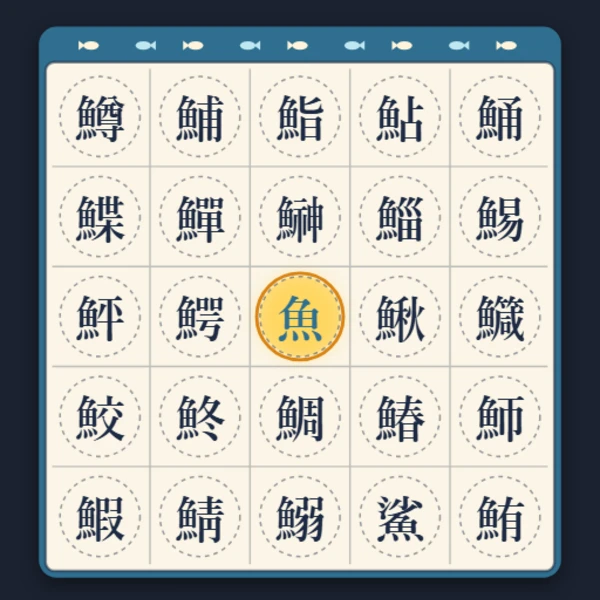
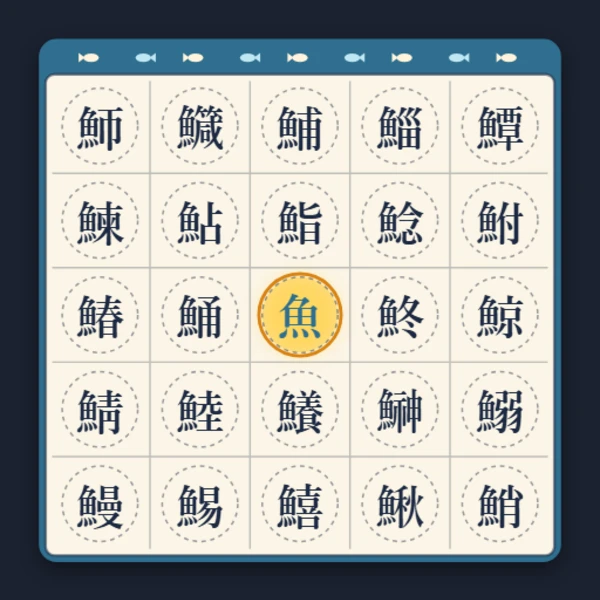
難読ビンゴ: 穴を開けるとシートが沈んで戻る手ごたえを付ける。結果はシートの下にボタンだけ。難は最初から選べる
結果の画面で暗くして数字や×を出すのをやめる。難を出す仕組みと演出、カード選びの F8 はなくす。サムネを撮り直す。

Changed region(s): [[0.06, 0.03, 0.96, 0.99]]

diff --git a/games/_sakanahen-bingo/index.html b/games/_sakanahen-bingo/index.html
@@ -35,7 +35,7 @@
    上に読みが1つずつ出る。その漢字がカードにあれば、時間内にタップして穴を開ける。
    違う漢字を押すと、その読みは流れてしまう。カードに無いと思ったらタイマーの右のスキップボタン（キーは X）で次へ進む。
    ビンゴまでに出た読みの数が結果（少ないほどよい）。
-   魚・木・金・鳥・虫を全部ビンゴすると「難」（難読漢字）のカードが出る。
+   カードは木・金・虫・魚・鳥と「難」（難読漢字）。
    クリアしたカードはブラウザに残し、選ぶ丸にチェックの印を付ける（回数は残さない）。
    ライフは3つ。違う字を押す・カードにある字を開けられずに流す、で1つ減り、なくなると終わり。
 
@@ -114,7 +114,6 @@
   /* ライフがなくなった: 下がっていく3音 */
   function sndOver() { [392, 330, 262].forEach(function (f, i) { tone(f, 0.28, 0.07, "triangle", f * 0.94, i * 0.16); }); }
   /* 難が出た: 高く駆け上がって、きらっと */
-  function sndUnlock() { [784, 988, 1175, 1568, 1976, 2349].forEach(function (f, i) { tone(f, 0.22, 0.06, "triangle", null, 0.15 + i * 0.07); }); }
   /* 抽選機がガラガラ回って、玉がコロコロ出てくる */
   function sndRattle() {
     for (var i = 0; i < 9; i++) noiseHit(0.03, 2200 + Math.random() * 1800, 0.05 + Math.random() * 0.04, 3, i * 0.06 + Math.random() * 0.02);
@@ -170,7 +169,6 @@
     return { mark: s.mark, list: s.list.split(" ").map(function (w) { return { k: w.charAt(0), r: w.slice(1) }; }) };
   });
   var setNo = 3;                                /* 選んでいるカード。最初は魚 */
-  var BASE = 5;                                 /* 最初から選べるカードの数。全部ビンゴすると次（難）が出る */
 
   /* ============ 記録 ============
      クリアしたカード（ビンゴできたか）だけをブラウザに残す。回数は残さない。
@@ -183,10 +181,7 @@
     for (var om in old) if (old[om]) cleared[om] = true;
   } catch (e) { cleared = {}; }
   function saveCleared() { try { window.localStorage.setItem(SAVE_KEY, JSON.stringify(cleared)); } catch (e) {} }
-  /* 確かめる用（手元 localhost だけの F8）。
-     カードを選ぶ画面では、難を出す／戻す（記録には何も書かない）。
-     遊んでいる間は、出ている読みの字がカードにあれば開け、無ければスキップする */
-  var debugNan = false;
+  /* 確かめる用（手元 localhost だけの F8）。遊んでいる間に押すと、出ている読みの字がカードにあれば開け、無ければスキップする */
   function isLocal() {
     try { return /^(localhost|127\.0\.0\.1)$/.test(window.location.hostname); } catch (e) { return false; }
   }
@@ -196,18 +191,7 @@
     if (at >= 0 && !open[at]) pickCell(at);
     else { skipT = T; endCall("pass"); }
   }
-  function toggleDebugNan() {
-    debugNan = !debugNan;
-    if (debugNan) chooseSet(SETS.length - 1);
-    else if (setNo >= BASE) { for (var i = 0; i < BASE; i++) if (SETS[i].mark === "魚") chooseSet(i); }
-  }
-  function unlocked() {
-    if (debugNan) return true;
-    for (var i = 0; i < BASE; i++) if (!cleared[SETS[i].mark]) return false;
-    return true;
-  }
-  function setCount() { return unlocked() ? SETS.length : BASE; }
-  var unlockT = -9;                             /* 難が出た瞬間（丸がはじけて出てくる） */
+  function setCount() { return SETS.length; }  /* 難も最初から選べる */
   function FISH() { return SETS[setNo].list; }
   var DRAW_SPIN = 0.55, DRAW_ROLL = 0.87, DRAW_TIME = 1.2;   /* 抽選機が回る → 玉が転がり出る → 玉が大きく寄ってくる、の区切り（秒） */
   var CALL_TIME = 10;                           /* 1つの読みを出しておく秒数 */
@@ -238,7 +222,7 @@
   var S = { INTRO: "intro", PLAY: "play", RESULT: "result" };
   /* PLAY の中の段階: call（読みが出ている）→ reveal（答えの漢字を見せる）→ 次の call、または bingo → 結果 */
   var state, phase, pt, score, card, open, openT, bingoLine, calls, cur, recent, outcome,
-      missT = [], wrongT = [], dealT = -9, drumA = 0, spin = 0, drumOut = 0, skipT = -9, backShown = false, lives = LIVES, lifeT = -9, failed = false, reachFx = [], shakeT = -9, sparks = [], cursor = 0, keyMode = false, T, reached;
+      missT = [], wrongT = [], dealT = -9, drumA = 0, spin = 0, drumOut = 0, skipT = -9, backShown = false, punchT = -9, punchCell = 12, lives = LIVES, lifeT = -9, failed = false, reachFx = [], shakeT = -9, sparks = [], cursor = 0, keyMode = false, T, reached;
 
   var BOX, BOXH, CARD, CELL, FRAME;
   function place() {
@@ -247,7 +231,7 @@
     BOXH = 200 + Math.min(extra * 0.35, 110);
     /* 紙のカード: 外枠（FRAME）の上に色の帯、その下に5×5のマス */
     var top = BOX + BOXH + 18, band = 26, pad = 10;
-    CELL = { w: 90, h: Math.min(90, Math.floor((H - top - 30 - band - pad * 2) / 5)) };
+    CELL = { w: 90, h: Math.min(90, Math.floor((H - top - 92 - band - pad * 2) / 5)) };   /* 下は結果のボタンの場所を空けておく */
     var fw = CELL.w * 5 + pad * 2;
     FRAME = { x: (W - fw) / 2, y: top, w: fw, h: band + pad * 2 + CELL.h * 5, band: band };
     CARD = { x: FRAME.x + pad, y: top + band + pad };
@@ -295,10 +279,13 @@
     }
   }
 
+  /* 穴を開けたときの手ごたえ: シート全体が押したマスのほうへ少し沈んで、ぷるっと戻る */
+  function punchAt(i) { punchT = T; punchCell = i; }
   function stamp(i) {
     if (open[i]) return;
     open[i] = true; openT[i] = 0;
     sndStamp();
+    punchAt(i);
     var cr = cellRect(i);
     burst(cr.x + cr.w / 2, cr.y + cr.h / 2, 10, 1);
     for (var l = 0; l < LINES.length; l++) {
@@ -308,11 +295,10 @@
       if (n === 4 && !reached[l]) { reached[l] = true; reachFx.push({ line: LINES[l], t: T }); shakeT = T; sndReach(); }
     }
   }
-  /* ビンゴしたらクリアとして残す。5つ揃ったら難が出る */
+  /* ビンゴしたらクリアとして残す */
   function record() {
-    var m = SETS[setNo].mark, was = unlocked();
+    var m = SETS[setNo].mark;
     if (!cleared[m]) { cleared[m] = true; saveCleared(); }
-    if (!was && unlocked()) unlockT = -1;       /* カード選びに戻った時に、丸が出てくる */
   }
 
   /* リーチの待ち: 4つ開いた列の、残り1つのマス */
@@ -424,8 +410,7 @@
   window.addEventListener("keydown", function (e) {
     if (e.key === "F8" && isLocal()) {
       e.preventDefault();
-      if (state === S.INTRO && !e.repeat) toggleDebugNan();
-      else if (state === S.PLAY) debugAnswer();
+      if (state === S.PLAY) debugAnswer();
       return;
     }
     var esc = e.key === "Escape";
@@ -791,6 +776,16 @@
     var sk = T - shakeT, shake = sk >= 0 && sk < 0.4 ? Math.sin(sk * 70) * 6 * (1 - sk / 0.4) : 0;
     ctx.save();
     ctx.translate(shake, 0);
+    var pk = T - punchT;
+    if (pk >= 0 && pk < 0.32) {                  /* 押した手ごたえ（沈んで、少し行き過ぎて戻る） */
+      var env = Math.exp(-pk * 13) * Math.cos(pk * 26);
+      var pc = cellRect(punchCell), mx = F.x + F.w / 2, my = F.y + F.h / 2;
+      var dx = (pc.x + pc.w / 2 - mx) / (F.w / 2), dy = (pc.y + pc.h / 2 - my) / (F.h / 2);
+      var sc = 1 - 0.014 * env;
+      ctx.translate(mx + dx * 2.5 * env, my + dy * 2.5 * env + 2 * env);
+      ctx.scale(sc, sc);
+      ctx.translate(-mx, -my);
+    }
     /* 影と外枠 */
     ctx.save();
     ctx.shadowColor = "rgba(0,0,0,.45)"; ctx.shadowBlur = 16; ctx.shadowOffsetY = 6;
@@ -1058,18 +1053,7 @@
   function drawSets() {
     setRects().forEach(function (r, i) {
       var on = i === setNo;
-      var ut = i >= BASE ? T - unlockT : 9;
-      if (ut < 0) return;                       /* 出てくる前（難が出る瞬間は、ほかの丸が描けてから） */
       ctx.save();
-      if (ut < 1.2) {                           /* 出てきたところ: 光の筋が回り、丸が弾んで大きくなる */
-        var pop = ut < 0.35 ? ut / 0.35 * 1.3 : 1 + 0.3 * Math.max(0, 1 - (ut - 0.35) / 0.4);
-        ctx.save();
-        ctx.translate(r.x, r.y); ctx.rotate(ut * 2);
-        ctx.globalAlpha = Math.max(0, 1 - ut / 1.2) * 0.8; ctx.fillStyle = "#ffe08a";
-        for (var k = 0; k < 12; k++) { ctx.rotate(Math.PI / 6); ctx.beginPath(); ctx.moveTo(0, 0); ctx.lineTo(r.r * 2.4, -5); ctx.lineTo(r.r * 2.4, 5); ctx.closePath(); ctx.fill(); }
-        ctx.restore();
-        ctx.translate(r.x, r.y); ctx.scale(pop, pop); ctx.translate(-r.x, -r.y);
-      }
       var chip = THEMES[i].rainbow ? rainbowFill(r.x - r.r, r.y - r.r, r.x + r.r, r.y + r.r, T * 60) : THEMES[i].chip;
       ctx.beginPath(); ctx.arc(r.x, r.y, r.r, 0, Math.PI * 2);
       ctx.fillStyle = on ? PAPER : chip; ctx.fill();
@@ -1099,10 +1083,10 @@
     ctx.restore();
   }
 
-  /* 結果画面。場面を暗くして、中央に数字と「もう一度」「Xでシェア」 */
+  /* 結果画面。ビンゴシートはそのまま見せて、すぐ下に「もう一度」「Xでシェア」 */
   function resultButtons() {
     var h = 54, gap = 16, wr = 170, ws = 224;
-    var x0 = W / 2 - (wr + gap + ws) / 2, y = H / 2 + 20;
+    var x0 = W / 2 - (wr + gap + ws) / 2, y = FRAME.y + FRAME.h + 20;   /* ビンゴシートのすぐ下 */
     return [
       { id: "retry", x: x0, y: y, w: wr, h: h, label: "もう一度" },
       { id: "share", x: x0 + wr + gap, y: y, w: ws, h: h, label: "Xでシェア" }
@@ -1116,23 +1100,7 @@
     }
     return null;
   }
-  function drawResult() {
-    ctx.fillStyle = "rgba(8,10,16,.78)";
-    ctx.fillRect(0, 0, W, H);
-    ctx.save();
-    ctx.fillStyle = "#fff";
-    ctx.shadowColor = "rgba(0,0,0,.6)";
-    ctx.shadowBlur = 10;
-    if (failed) {                               /* ライフがなくなったときは数字の代わりに大きなばつ印 */
-      ctx.strokeStyle = "#fff"; ctx.lineWidth = 18; ctx.lineCap = "round";
-      var cx = W / 2, cy = H / 2 - 72, d = 44;
-      ctx.beginPath(); ctx.moveTo(cx - d, cy - d); ctx.lineTo(cx + d, cy + d); ctx.moveTo(cx + d, cy - d); ctx.lineTo(cx - d, cy + d); ctx.stroke();
-    } else {
-      ctx.font = "800 120px sans-serif";
-      ctx.textAlign = "center";
-      ctx.fillText(String(score), W / 2, H / 2 - 30);
-    }
-    ctx.restore();
+  function drawResult() {                      /* 場面はそのまま。シートの下にボタンを出すだけ */
     resultButtons().forEach(function (b) {
       ctx.save();
       ctx.translate(b.x + b.w / 2, b.y + b.h / 2);
@@ -1155,7 +1123,7 @@
     now: function () {
       return { state: state, phase: phase, score: score, calls: calls, card: card && card.slice(), open: open && open.slice(),
                call: cur && { kanji: cur.k, reading: cur.r }, outcome: outcome, bingo: bingoLine && bingoLine.slice(),
-               set: SETS[setNo].mark, cleared: JSON.parse(JSON.stringify(cleared)), unlocked: unlocked(), lives: lives, failed: failed, waiting: waiting(), reaches: reachFx.length, cursor: cursor, keyMode: keyMode, W: W, H: H };
+               set: SETS[setNo].mark, cleared: JSON.parse(JSON.stringify(cleared)), lives: lives, failed: failed, waiting: waiting(), reaches: reachFx.length, cursor: cursor, keyMode: keyMode, W: W, H: H };
     },
     fish: function () { return FISH().map(function (f) { return { kanji: f.k, reading: f.r }; }); },
     sets: function () { return SETS.map(function (s) { return { mark: s.mark, list: s.list.map(function (f) { return { kanji: f.k, reading: f.r }; }) }; }); },
@@ -1203,6 +1171,7 @@
     newRound(true);
     openT[12] = 0;                              /* 真ん中の穴が開く動きから始める */
     sndStamp();
+    punchAt(12);
     var cr = cellRect(12);
     burst(cr.x + cr.w / 2, cr.y + cr.h / 2, 16, 1);
   }
@@ -1214,7 +1183,6 @@
     card = dealCard(); dealT = T;
     open = []; openT = []; missT = []; wrongT = [];
     for (var i0 = 0; i0 < 25; i0++) { open.push(false); openT.push(-1); missT.push(-9); wrongT.push(-9); }
-    if (unlockT === -1) { unlockT = T + 0.3; sndUnlock(); }   /* 難が出た直後: 少し待ってから丸がはじけて出てくる */
   }
   T = 0; dealT = -9;
   goIntro();

diff --git a/games/_tools/tests/sakanahen-bingo.js b/games/_tools/tests/sakanahen-bingo.js
@@ -35,7 +35,7 @@ function start(g) { tapCell(g, 12); g.step(1); assert.equal(now(g).state, 'play'
   const g = open();
   const sets = g.probe.sets();
   assert.deepEqual(sets.map(s => s.mark), ORDER, 'やさしい順に左から');
-  assert.equal(g.probe.setCount(), 5, '難は最初は出ていない');
+  assert.equal(g.probe.setCount(), 6, '難も最初から選べる');
   /* 難は、ほかのカードに入っていない字だけ */
   const others = new Set(sets.slice(0, 5).flatMap(s => s.list.map(f => f.kanji)));
   sets[5].list.forEach(f => assert.ok(!others.has(f.kanji), f.kanji + ' はほかのカードにもある'));
@@ -63,15 +63,16 @@ function start(g) { tapCell(g, 12); g.step(1); assert.equal(now(g).state, 'play'
   const wood = g.probe.sets()[I('木')].list.map(f => f.kanji);
   assert.ok(now(g).card.filter(Boolean).every(k => wood.includes(k)), '木のカードに配り直す');
   g.press('ArrowRight'); assert.equal(now(g).set, '金');
-  g.press('ArrowLeft'); g.press('ArrowLeft'); assert.equal(now(g).set, '鳥', '端から回る');
+  g.press('ArrowLeft'); g.press('ArrowLeft'); assert.equal(now(g).set, '難', '端から回る');
   const card = now(g).card;
   start(g);
   assert.deepEqual(now(g).card, card);
-  const bird0 = g.probe.sets()[I('鳥')].list.map(f => f.kanji);
-  assert.ok(bird0.includes(now(g).call.kanji), '鳥の読みが出る');
-  /* 丸の間隔もスマホで押せる */
+  const hard0 = g.probe.sets()[I('難')].list.map(f => f.kanji);
+  assert.ok(hard0.includes(now(g).call.kanji), '難の読みが出る');
+  /* 6つ並べても、丸の間隔はスマホで押せて、画面に収まる */
   const a0 = g.probe.setButton(0), a1 = g.probe.setButton(1);
   assert.ok(a1.x - a0.x >= 63);
+  assert.ok(g.probe.setButton(5).x + 34 <= now(g).W && a0.x - 34 >= 0, '画面に収まる');
 }
 
 /* 1. 開始前は真ん中を押すまで始まらない。カードは24字＋真ん中 */
@@ -288,7 +289,7 @@ ORDER.slice(0, 5).forEach(mark => {
   assert.ok(g.probe.dealAlpha(0) > 0.99, '始めた直後も字が見える ' + g.probe.dealAlpha(0));
 }
 
-/* 11. 5つ全部ビンゴすると難が出る。残すのはクリアしたかだけ（回数は残さない）。ライフがなくなった回はクリアにしない */
+/* 11. 残すのはクリアしたかだけ（回数は残さない）。ライフがなくなった回はクリアにしない */
 {
   const g = open();
   /* 1回目: わざと間違えて終わる → 記録なし */
@@ -301,52 +302,25 @@ ORDER.slice(0, 5).forEach(mark => {
   g.until(() => now(g).state === 'result', 400);
   assert.ok(now(g).failed);
   assert.deepEqual(now(g).cleared, {}, 'ライフがなくなった回はクリアにしない');
-  const marks = ['魚', '木', '金', '鳥', '虫'];   /* 並びと違う順に遊んでも、5つ揃えば出る */
-  marks.forEach((m, k) => {
-    const set = I(m);
+  ['魚', '難'].forEach(m => {
     back(g);
-    const b = g.probe.setButton(set); g.tap(b.x, b.y); g.step(1);
+    const b = g.probe.setButton(I(m)); g.tap(b.x, b.y); g.step(1);
     start(g);
     assert.equal(now(g).set, m);
     const res = playOut(g);
     assert.ok(!res.failed);
     assert.equal(res.cleared[m], true, m + ' をクリア');
     assert.ok(Object.values(res.cleared).every(v => v === true), '回数は残さない');
-    assert.equal(g.probe.setCount(), k < 4 ? 5 : 6, k < 4 ? 'まだ難は出ない' : '5つ揃うと難が出る');
   });
-  assert.ok(now(g).unlocked);
-  back(g);
-  g.step(120);
-  /* 難を選んで遊ぶ */
-  const nb = g.probe.setButton(5); g.tap(nb.x, nb.y); g.step(1);
-  assert.equal(now(g).set, '難');
-  const a0 = g.probe.setButton(0), a1 = g.probe.setButton(1);
-  assert.ok(a1.x - a0.x >= 63, '6つ並べても丸同士が離れている');
-  assert.ok(g.probe.setButton(5).x + 34 <= now(g).W && a0.x - 34 >= 0, '画面に収まる');
-  start(g);
-  const hard = g.probe.sets()[5].list.map(f => f.kanji);
-  assert.ok(now(g).card.filter(Boolean).every(k => hard.includes(k)), '難のカード');
-  const res = playOut(g);
-  assert.equal(res.cleared['難'], true, '難もクリアとして残る');
 }
 
-/* 12. 確かめる用: 手元だけ、カード選びで F8 を押すと難が出て選ばれる。もう一度で戻る。公開の場所では効かない。記録には書かない */
+/* 12. 確かめる用: 手元だけ、遊んでいる間の F8 で出ている字を開ける（無ければスキップ）。公開の場所では効かない */
 {
   const at = host => load(file, { quiet: true, inject: 'window.location.hostname = ' + JSON.stringify(host) + ';' });
   const g = at('localhost'); g.step(2);
-  assert.equal(g.probe.setCount(), 5);
   g.press('F8'); g.step(1);
-  assert.equal(g.probe.setCount(), 6, 'F8 で難が出る');
-  assert.equal(now(g).set, '難', '難を選んでいる');
-  assert.deepEqual(now(g).cleared, {}, '記録は空のまま');
-  g.press('F8'); g.step(1);
-  assert.equal(g.probe.setCount(), 5, 'もう一度で戻る');
+  assert.equal(now(g).state, 'intro', 'カード選びの F8 では何も起きない');
   assert.equal(now(g).set, '魚');
-  g.press('F8'); g.step(1);
-  start(g);
-  assert.ok(g.probe.sets()[I('難')].list.some(f => f.kanji === now(g).call.kanji), '難で遊べる');
-  g.press('F8'); g.step(1);
-  assert.equal(g.probe.setCount(), 6, '遊んでいる間の F8 では変わらない');
   /* 遊んでいる間の F8: 出ている字があれば開け、無ければスキップ。押し続ければビンゴまで行く */
   const h = at('localhost'); h.step(2); start(h);
   for (let k = 0; k < 2000 && now(h).state === 'play'; k++) {
@@ -362,8 +336,6 @@ ORDER.slice(0, 5).forEach(mark => {
   assert.ok(!now(h).failed && now(h).bingo, 'F8 だけでビンゴまで');
   assert.equal(now(h).lives, 3, 'ライフは減らない');
   const pub = at('www.zounoashi.com'); pub.step(2);
-  pub.press('F8'); pub.step(1);
-  assert.equal(pub.probe.setCount(), 5, '公開の場所では効かない');
   start(pub);
   const c0 = now(pub).calls;
   pub.press('F8'); pub.step(1);
@@ -372,11 +344,15 @@ ORDER.slice(0, 5).forEach(mark => {
 }
 
 /* 8. 画面の形を変えても、マス同士・箱が押せる大きさ */
-[[375, 667], [390, 844], [430, 932], [768, 1024]].forEach(v => {
+[[375, 667], [320, 480], [390, 844], [430, 932], [768, 1024]].forEach(v => {
   const g = open(v);
   const a = g.probe.cell(0), b = g.probe.cell(1), d = g.probe.cell(5);
   assert.ok(b.x - a.x >= 63 && d.y - a.y >= 63, v + ' マスの間隔 ' + (b.x - a.x) + ',' + (d.y - a.y));
   assert.ok(d.y + (d.y - a.y) * 4 < now(g).H, v + ' カードが画面に収まる');
+  /* 結果のボタンはシートのすぐ下。マスから離れていて、画面に収まる */
+  const last = g.probe.cell(22), rb = g.probe.result().retry, sb = g.probe.result().share;
+  assert.ok(rb.y - last.y >= 63 && rb.y + 27 <= now(g).H, v + ' 結果のボタンの位置 ' + (rb.y - last.y) + ' / ' + (now(g).H - rb.y));
+  assert.equal(rb.y, sb.y);
 });
 
 console.log('難読ビンゴ: ok');
